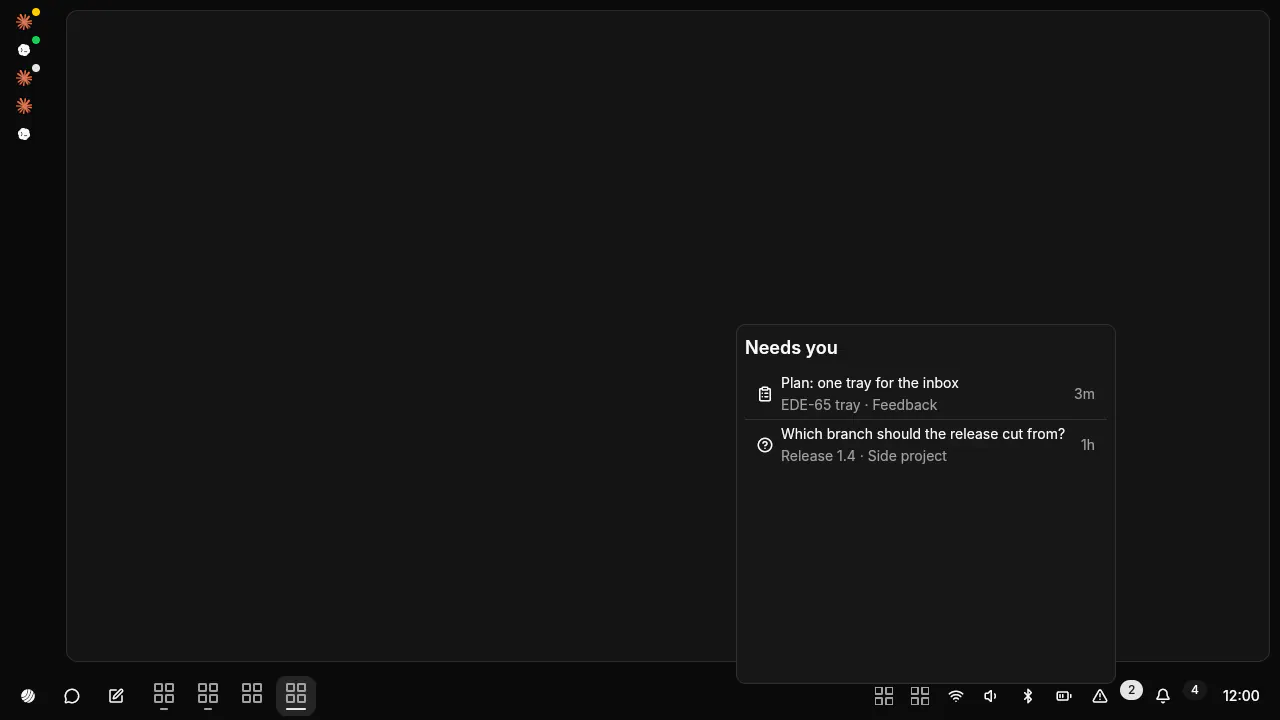
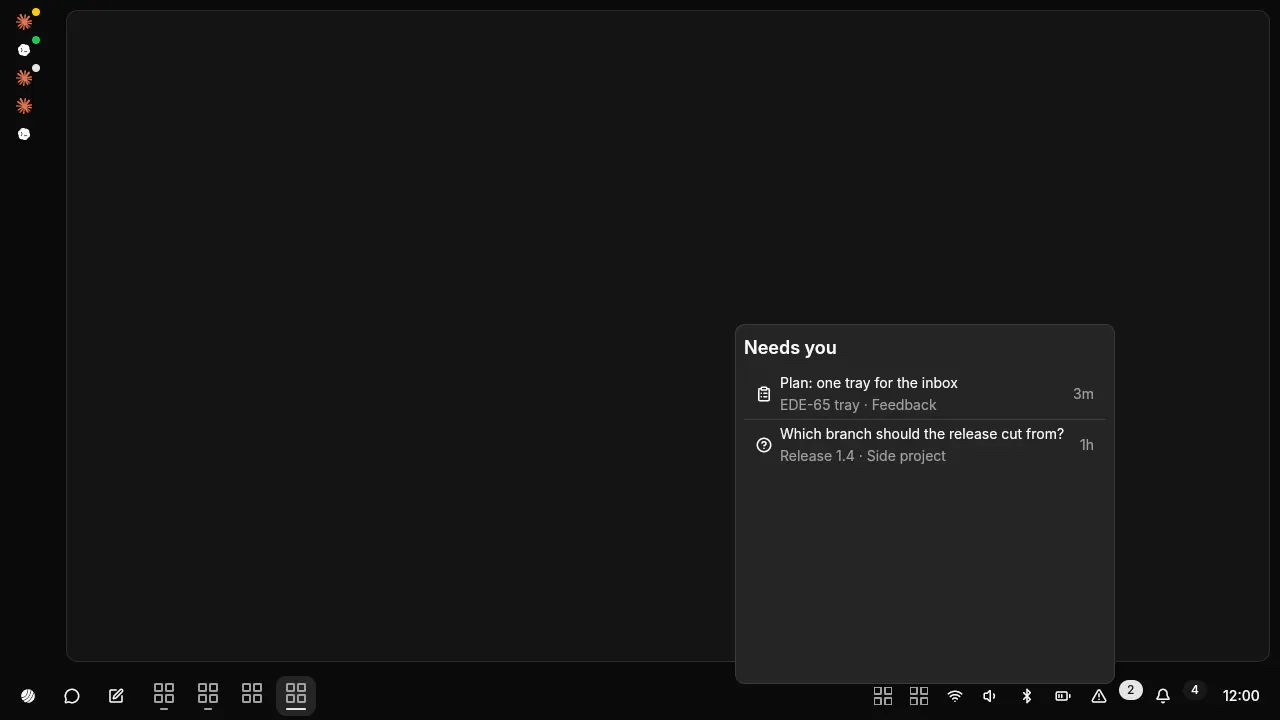
eDE goldens never read the runner: shots.sh pins the date, the demo pins the person; Needs you + start menu re-recorded
release-suite `ede-goldens` was red on master:
- ede-applet-calendar drew the runner's today (golden: 2026-11-08). shots.sh now
  pins EDE_SHELL_DATE=2026-11-08 beside EDE_SHELL_CLOCK.
- ede-panel-menu showed the machine's login + /etc/hostname; EDE_SHELL_DEMO now
  feeds a fixed person (Alex Rivera @ workstation). Re-recorded, which also takes
  the intended genUI Avatar initials (#2439/#2464: N -> NI-style two letters).
- ede-needs-you: the popup now paints its $color.popover fill like every other
  applet (and sits 1 px over); first flagged at b7dec3184f, range #2373..#2388,
  most likely #2375 (whole-device-pixel snapping). Re-recorded.

diff --git a/apps/desktop/crates/ede-shell/src/settings.rs b/apps/desktop/crates/ede-shell/src/settings.rs
@@ -154,8 +154,12 @@ pub fn output_json(o: &ede_protocol::OutputInfo) -> Value {
     })
 }
 
-/// The person: login and full name from the password database.
+/// The person: login and full name from the password database; the demo
+/// (the goldens) never reads the machine's login or host.
 pub fn user_json() -> Value {
+    if std::env::var_os("EDE_SHELL_DEMO").is_some_and(|v| !v.is_empty() && v != "0") {
+        return json!({"login": "alex", "name": "Alex Rivera", "host": "workstation"});
+    }
     let login = std::env::var("USER").unwrap_or_default();
     // SAFETY: getpwuid returns a static buffer or null; the strings are copied out.
     let name = unsafe {
